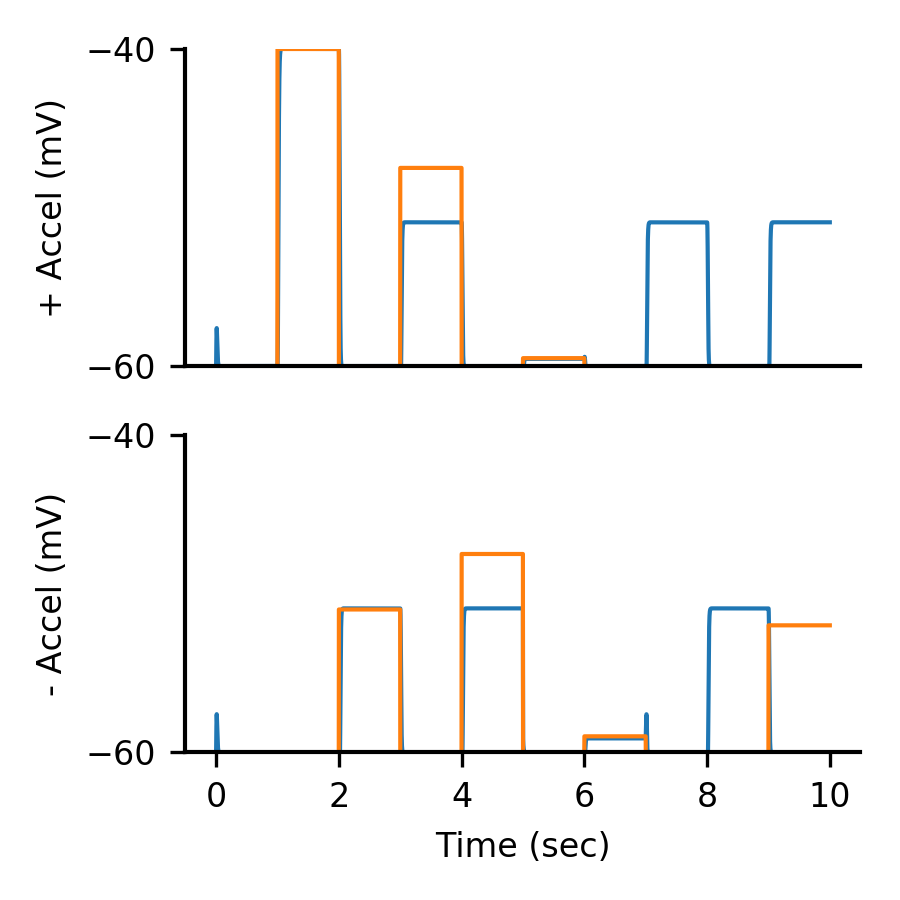
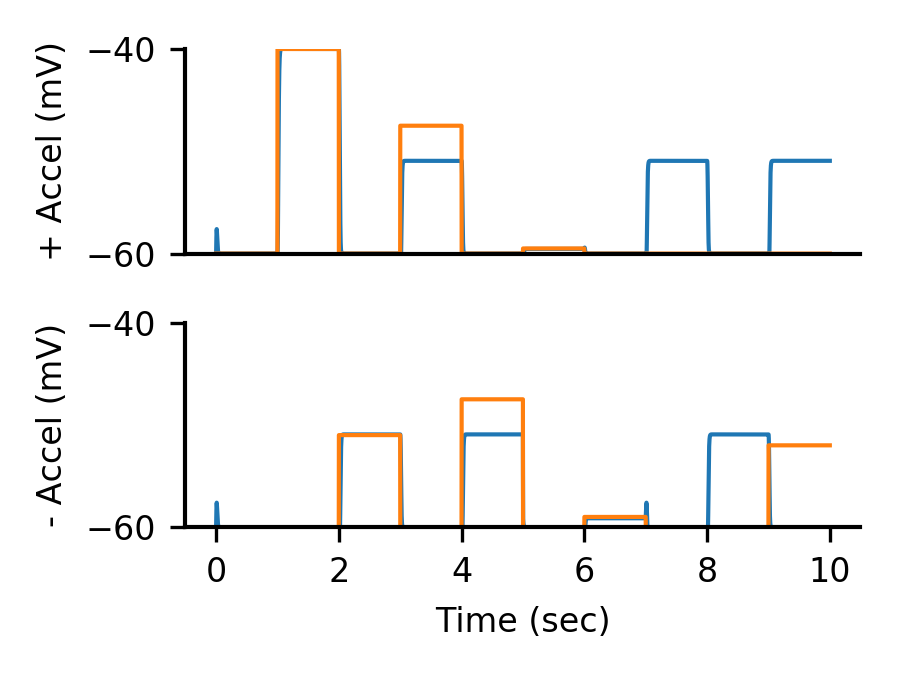
Convert to the 2.25 in high options

diff --git a/writeup/conference.tex b/writeup/conference.tex
@@ -434,7 +434,7 @@ The torque optimization network was tested as a complete network. See \myref{fig
 % TODO(buckbaskin): fix test data. This is broken back at the animatlab
 \begin{figure}
 \centering
-\includegraphics[width=3in]{results/TestTorqueOptimization}
+\includegraphics[height=2.25in]{results/TestTorqueOptimization}
 \caption{Torque Optimization (Reference in orange)}
 \label{fig:TestTorqueOptimization}
 \end{figure}
@@ -443,7 +443,7 @@ The components for converting the torque to acceleration were also tested separa
 % TODO(buckbaskin): Figure of neuron controller T2A
 \begin{figure}
 \centering
-\includegraphics[width=3in]{results/TestT2A}
+\includegraphics[height=2.25in]{results/TestT2A}
 \caption{Estimated Acceleration from Torque}
 \label{fig:TestT2A}
 \end{figure}
@@ -452,8 +452,8 @@ The components for converting the torque to pressure were also tested separately
 % TODO(buckbaskin): Figure of neuron controller T2P
 \begin{figure}
 \centering
-\includegraphics[width=3in]{results/TestAccelPos}
-\caption{Converting desired torque to actuator pressure}
+\includegraphics[height=2.25in]{results/TestT2A}
+\caption{Estimated Pressure from Torque}
 \label{fig:TestT2P}
 \end{figure}
 

diff --git a/writeup/scripts/plot_T2A.py b/writeup/scripts/plot_T2A.py
@@ -51,7 +51,7 @@ setup = [
 ]
 
 
-fig = plt.figure(figsize=(3,3,), dpi=300)
+fig = plt.figure(figsize=(3,2.25,), dpi=300)
 ax1 = fig.add_subplot('211')
 ax2 = fig.add_subplot('212')
 count = 0

diff --git a/writeup/scripts/plot_torque_optimize.py b/writeup/scripts/plot_torque_optimize.py
@@ -58,7 +58,7 @@ setup = [
 ]
 
 
-fig = plt.figure(figsize=(3,3,), dpi=300)
+fig = plt.figure(figsize=(3,2.25,), dpi=300)
 ax1 = fig.add_subplot('211')
 ax2 = fig.add_subplot('212')
 count = 0
